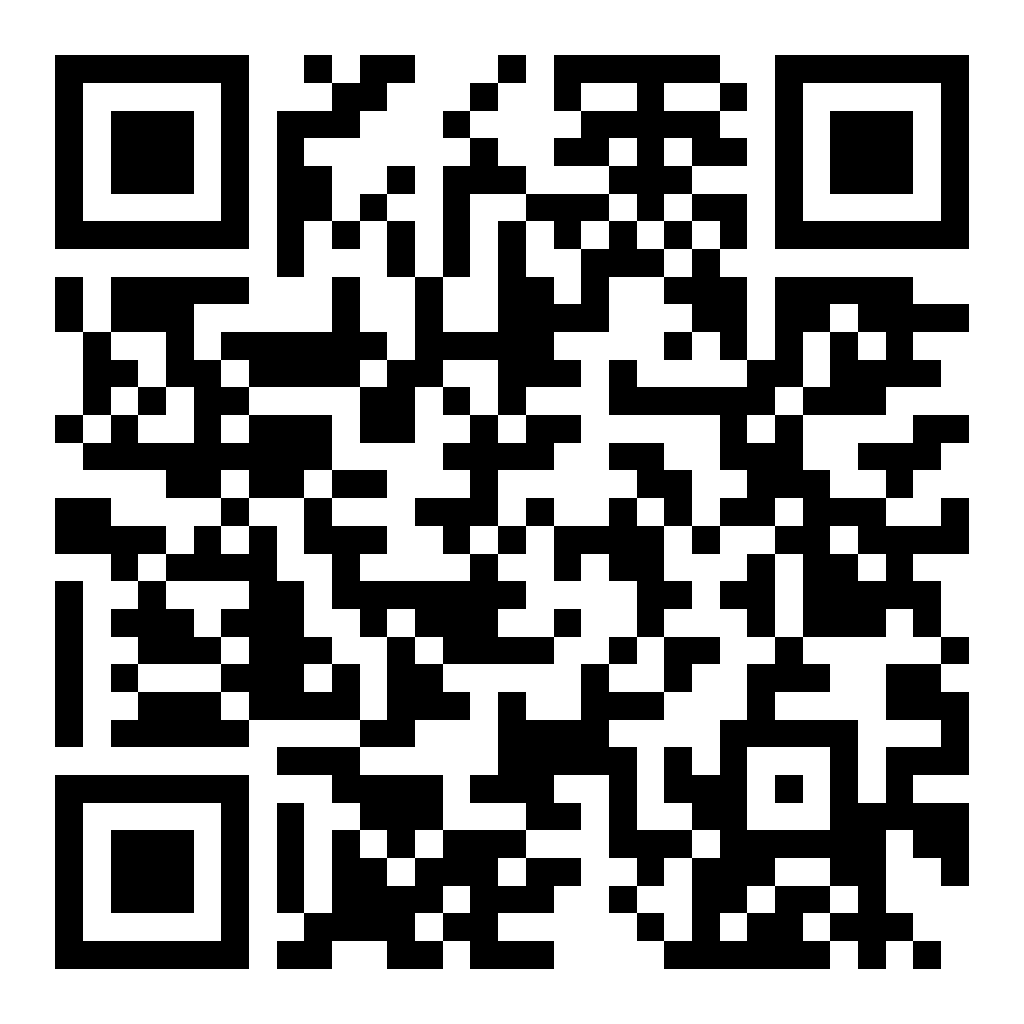
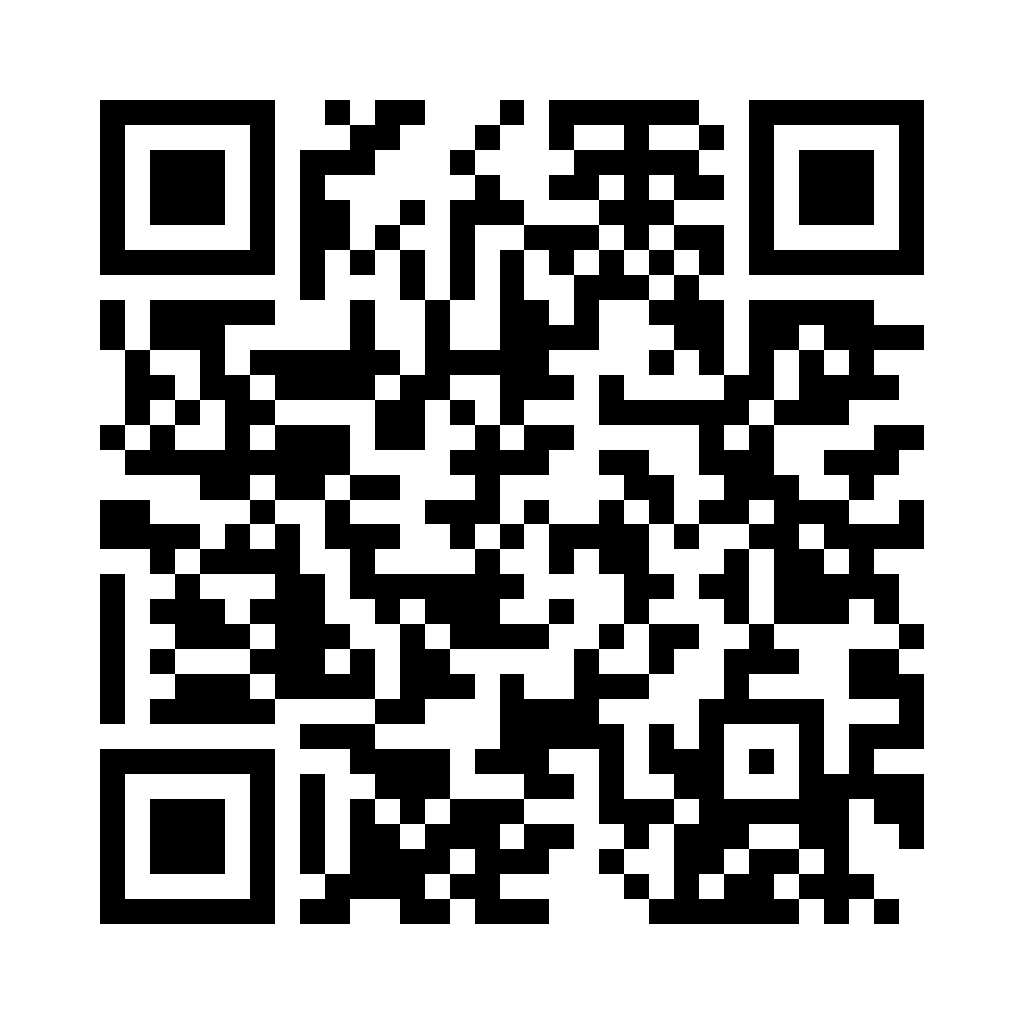
fix(canteen): harden Pin Me QR regen per review
Use a 4-module quiet zone and only publish PNGs after decode verification via a temp file replace.

diff --git a/scripts/regen-canteen-qr.py b/scripts/regen-canteen-qr.py
@@ -25,20 +25,33 @@ TARGETS = {
 
 
 def main() -> None:
+    OUT_DIR.mkdir(parents=True, exist_ok=True)
     for name, url in TARGETS.items():
         qr = qrcode.QRCode(
             version=None,
             error_correction=qrcode.constants.ERROR_CORRECT_M,
             box_size=16,
-            border=2,
+            border=4,
         )
         qr.add_data(url)
         qr.make(fit=True)
         img = qr.make_image(fill_color="black", back_color="white").convert("RGB")
         img = img.resize((1024, 1024), Image.Resampling.NEAREST)
+
         path = OUT_DIR / f"{name}.png"
-        img.save(path, format="PNG", optimize=True)
-        decoded = [d.data.decode() for d in decode(Image.open(path))]
+        tmp_path = OUT_DIR / f".{name}.png.tmp"
+        img.save(tmp_path, format="PNG", optimize=True)
+        try:
+            with Image.open(tmp_path) as saved:
+                decoded = [d.data.decode() for d in decode(saved)]
+            if decoded != [url]:
+                raise RuntimeError(
+                    f"{name}: decode mismatch, expected {[url]!r}, got {decoded!r}"
+                )
+            tmp_path.replace(path)
+        except Exception:
+            tmp_path.unlink(missing_ok=True)
+            raise
         print(f"{name}: {path.name} -> {decoded}")
 
 
